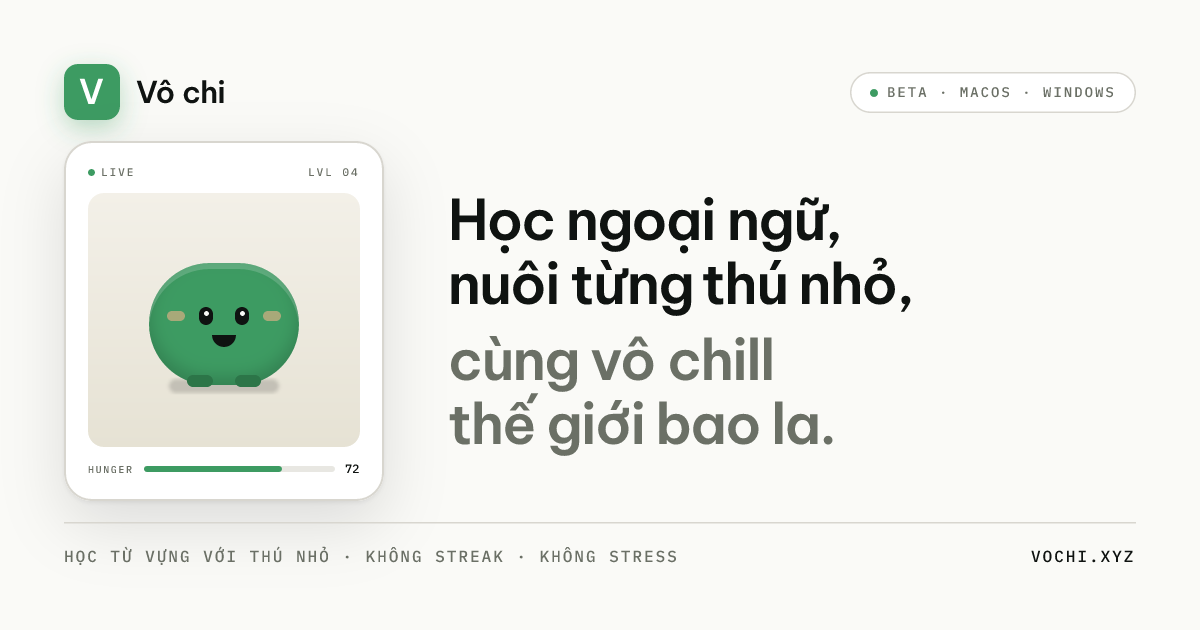
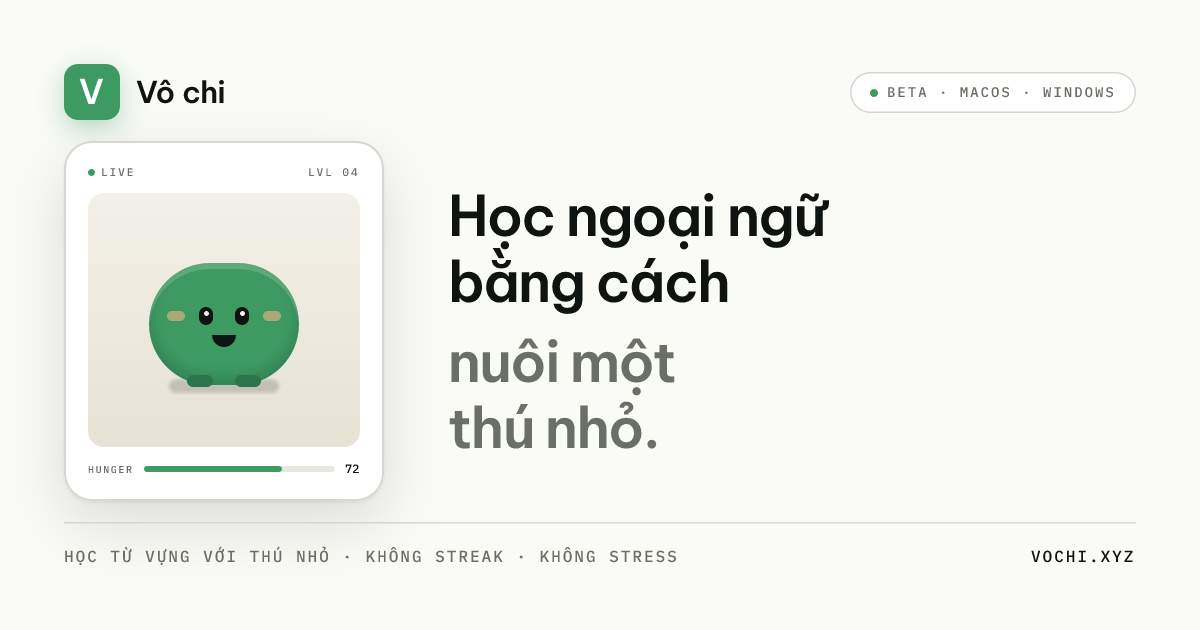
copy + og: add quiet-proof strip, sync OG card with new hero
Method gets a small proof block at the bottom: one short claim
('Được xây dựng dựa trên ghi nhớ ngắt quãng' / 'Built on spaced
repetition') and three bullets:
  01  Reviews land just before you would forget.
  02  Schedule follows your memory, not a one-size formula.
  03  Small sessions, kept up over time.

Renders as a single rounded card under the pillars (left column =
eyebrow + claim, right = three bullets with hairline separators).
Bilingual via the existing COPY map.

OG card (scripts/gen-og.tsx + public/og.png) updated to the new
hero couplet:
  Học ngoại ngữ
  bằng cách
  nuôi một
  thú nhỏ.
The vô-chill couplet is gone from the social image so what
crawlers preview matches what visitors see above the fold.

Changed region(s): [[0.37, 0.5127, 0.7092, 0.7238], [0.37, 0.3016, 0.7708, 0.5127], [0.5858, 0.3016, 0.6167, 0.3317]]

diff --git a/components/Method.tsx b/components/Method.tsx
@@ -8,6 +8,12 @@ const COPY = {
     eyebrow: "Phương pháp Vô chi",
     title: "Vì sao thú nhỏ",
     titleItalic: "giúp bạn nhớ lâu hơn.",
+    proofTitle: "Được xây dựng dựa trên ghi nhớ ngắt quãng.",
+    proofBullets: [
+      "Nhắc lại đúng lúc trước khi quên.",
+      "Lịch ôn theo trí nhớ của riêng bạn, không theo công thức chung.",
+      "Học ít nhưng đều đặn.",
+    ],
     pillars: [
       {
         no: "01",
@@ -30,6 +36,12 @@ const COPY = {
     eyebrow: "The Vô chi method",
     title: "Why a tiny creature",
     titleItalic: "helps you remember longer.",
+    proofTitle: "Built on spaced repetition.",
+    proofBullets: [
+      "Reviews land just before you would forget.",
+      "Schedule follows your memory, not a one-size formula.",
+      "Small sessions, kept up over time.",
+    ],
     pillars: [
       {
         no: "01",
@@ -93,6 +105,38 @@ export function Method({ lang }: { lang: Lang }) {
             </motion.li>
           ))}
         </ol>
+
+        <motion.div
+          initial={{ opacity: 0, y: 14 }}
+          whileInView={{ opacity: 1, y: 0 }}
+          viewport={{ once: true, margin: "-60px" }}
+          transition={{ duration: 0.55, ease: [0.16, 1, 0.3, 1] }}
+          className="mt-14 grid grid-cols-1 gap-6 rounded-2xl border border-[var(--color-hairline-strong)] bg-[var(--color-surface)] p-7 md:mt-20 md:grid-cols-12 md:gap-10 md:p-10 lift"
+        >
+          <div className="md:col-span-4">
+            <div className="micro mb-3 text-[var(--color-accent-deep)]">
+              {lang === "vi" ? "Bằng chứng nhỏ" : "Quiet proof"}
+            </div>
+            <p className="font-display text-[20px] leading-[1.2] tracking-tight md:text-[22px]">
+              {t.proofTitle}
+            </p>
+          </div>
+          <ul className="md:col-span-8 grid grid-cols-1 gap-3 md:grid-cols-3 md:gap-6">
+            {t.proofBullets.map((b, i) => (
+              <li
+                key={i}
+                className="flex flex-col gap-2 border-t border-[var(--color-hairline)] pt-4 md:border-t-0 md:border-l md:pl-6 md:pt-0"
+              >
+                <span className="font-mono text-[10.5px] uppercase tracking-[0.18em] text-[var(--color-ink-muted)]">
+                  {String(i + 1).padStart(2, "0")}
+                </span>
+                <span className="text-[14.5px] leading-[1.45] text-[var(--color-ink)]">
+                  {b}
+                </span>
+              </li>
+            ))}
+          </ul>
+        </motion.div>
       </div>
     </section>
   );

diff --git a/scripts/gen-og.tsx b/scripts/gen-og.tsx
@@ -402,20 +402,20 @@ async function build() {
             style={{
               display: "flex",
               flexDirection: "column",
-              gap: 4,
+              gap: 6,
               fontSize: 56,
               lineHeight: 1.08,
               letterSpacing: -1.8,
               flex: 1,
             }}
           >
-            <div style={{ fontWeight: 600 }}>Học ngoại ngữ,</div>
-            <div style={{ fontWeight: 600 }}>nuôi từng thú nhỏ,</div>
-            <div style={{ fontWeight: 600, color: "#6b7066", marginTop: 12 }}>
-              cùng vô chill
+            <div style={{ fontWeight: 600 }}>Học ngoại ngữ</div>
+            <div style={{ fontWeight: 600 }}>bằng cách</div>
+            <div style={{ fontWeight: 600, color: "#6b7066", marginTop: 14 }}>
+              nuôi một
             </div>
             <div style={{ fontWeight: 600, color: "#6b7066" }}>
-              thế giới bao la.
+              thú nhỏ.
             </div>
           </div>
         </div>
